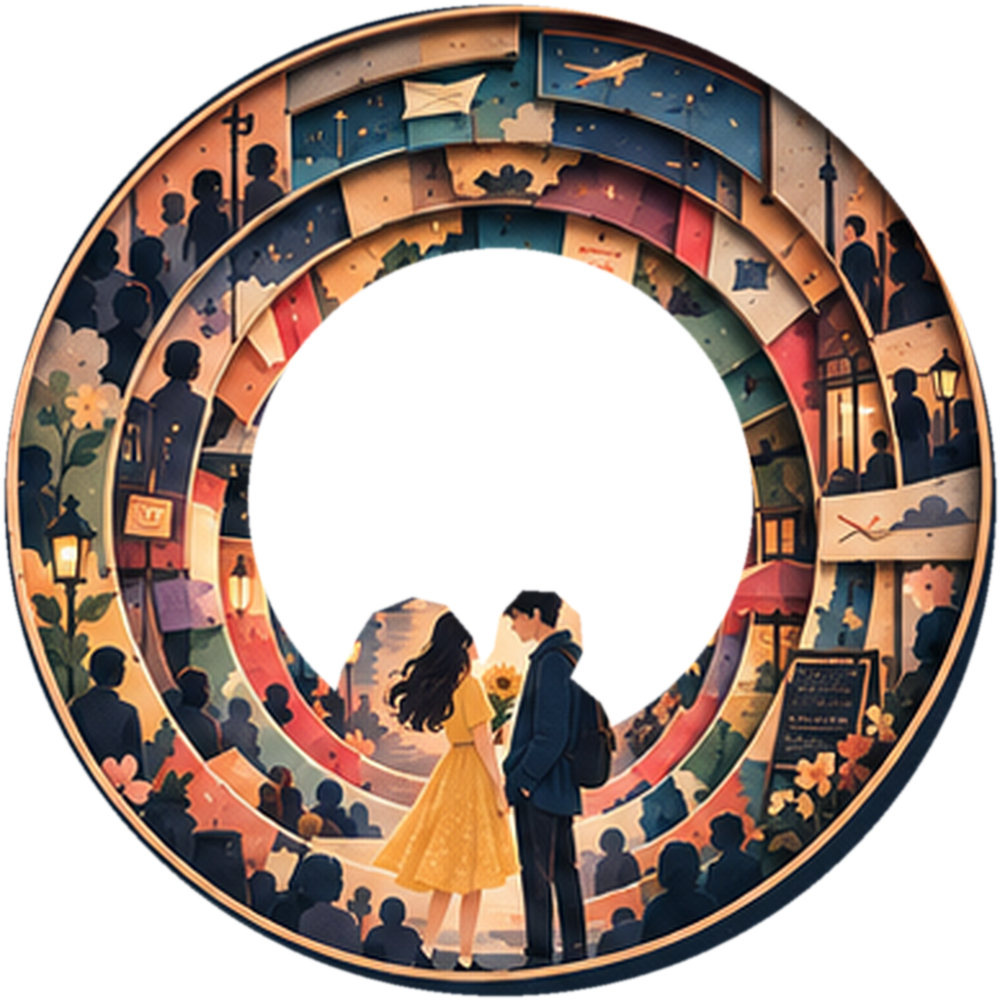
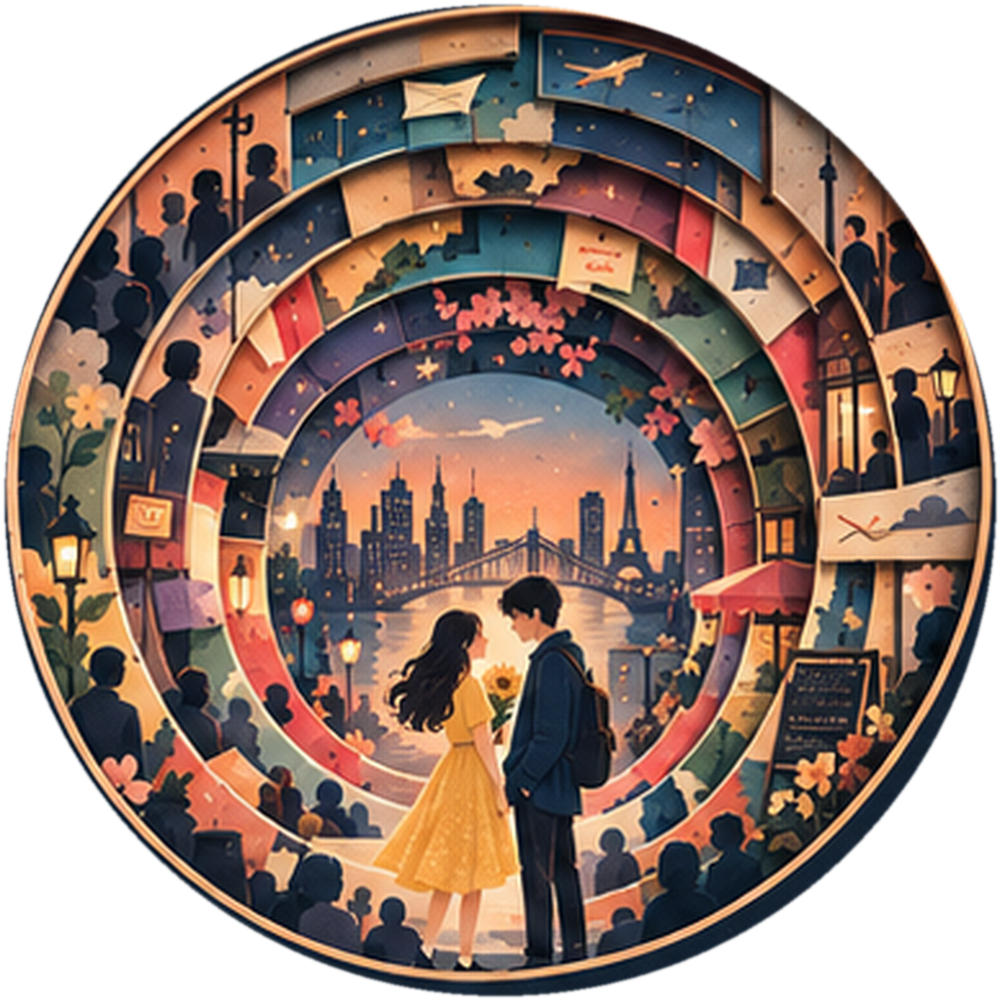
Remove grey fill from Three Meeting Theory portal

Changed region(s): [[0.248, 0.248, 0.775, 0.744]]

diff --git a/shared/web/app.js b/shared/web/app.js
@@ -2,7 +2,7 @@ import { chapters, renderIcon, renderPortal, renderPortalScene } from './chapter
 import { introduction, parts, chapterNotes } from './book.js?v=13';
 import { renderChapterMarker, getChapterMarkerName } from './markers.js?v=13';
 import { PortalRing } from './ring.js?v=10';
-import { renderPortalPicture, renderPortalFrame, renderFramedPortal } from './portal-art.js?v=34';
+import { renderPortalPicture, renderPortalFrame, renderFramedPortal } from './portal-art.js?v=35';
 
 const $ = selector => document.querySelector(selector);
 const $$ = selector => [...document.querySelectorAll(selector)];
@@ -56,7 +56,7 @@ function artHTML(chapter){
   if(chapter.id==='03')return renderFramedPortal('playToWin','play-to-win-chapter','assets/play-to-win-ring-v2.png');
   if(chapter.id==='04')return renderFramedPortal('fashion','fashion-chapter','assets/fashion-ring-v2.png');
   if(chapter.id==='08')return renderFramedPortal('motherRussia','mother-russia-chapter','assets/mother-russia-ring-v2.png');
-  if(chapter.id==='17')return renderFramedPortal('threeMeeting','three-meeting-chapter','assets/three-meeting-ring-v2.png');
+  if(chapter.id==='17')return renderFramedPortal('threeMeeting','three-meeting-chapter','assets/three-meeting-ring-v2.png?v=4');
   if(chapter.id==='18')return renderFramedPortal('datingAlgorithm','dating-algorithm-chapter','assets/dating-algorithm-ring-v2.png');
   if(chapter.id==='19')return renderFramedPortal('dating102','dating-102-chapter','assets/dating-102-ring-v2.png');
   return renderPortal(chapter);
@@ -167,7 +167,7 @@ function selectMapChapter(index,{fromRing=false}={}){
   selectedMapChapter=((index%chapters.length)+chapters.length)%chapters.length;
   const chapter=chapters[selectedMapChapter],part=partById(chapter.act);
   $('#map-view').dataset.chapter=chapter.slug;
-  const fittedRing={'00':'assets/rice-ring-board-v2.png','01':'assets/quant-ring.png','02':'assets/expected-utility-ring-v2.png','03':'assets/play-to-win-ring-v2.png','04':'assets/fashion-ring-v2.png','08':'assets/mother-russia-ring-v2.png','17':'assets/three-meeting-ring-v2.png','18':'assets/dating-algorithm-ring-v2.png','19':'assets/dating-102-ring-v2.png'}[chapter.id];
+  const fittedRing={'00':'assets/rice-ring-board-v2.png','01':'assets/quant-ring.png','02':'assets/expected-utility-ring-v2.png','03':'assets/play-to-win-ring-v2.png','04':'assets/fashion-ring-v2.png','08':'assets/mother-russia-ring-v2.png','17':'assets/three-meeting-ring-v2.png?v=4','18':'assets/dating-algorithm-ring-v2.png','19':'assets/dating-102-ring-v2.png'}[chapter.id];
   const fitted=Boolean(fittedRing);
   const pictureKey=chapter.id==='01'?'quant':chapter.id==='02'?'expectedUtility':chapter.id==='03'?'playToWin':chapter.id==='04'?'fashion':chapter.id==='08'?'motherRussia':chapter.id==='17'?'threeMeeting':chapter.id==='18'?'datingAlgorithm':chapter.id==='19'?'dating102':'rice';
   $('#portal-art').classList.toggle('uses-fitted-picture',fitted);

diff --git a/shared/web/portal-art.js b/shared/web/portal-art.js
@@ -1,5 +1,6 @@
 // One coordinate system for the picture, rotating frame and authoring template.
-// Images are full-bleed scenes. Decorative rings belong only to the frame layer.
+// Most chapters use a separate picture and frame. Three Meeting Theory keeps
+// its indivisible source illustration intact on one rotating circular sheet.
 export const portalGeometry = Object.freeze({size:1000, centre:500, outerRadius:480, apertureRadius:310, pictureRadius:312});
 export const portalPictures = Object.freeze({
   cover:{src:'assets/cover-scene-landscape.png',alt:'Jason looks through the portal toward the original dusk city and bridge landscape.',zoom:1,x:0,y:0},
@@ -12,7 +13,7 @@ export const portalPictures = Object.freeze({
   fashion:{src:'assets/fashion-scene-v2.png',alt:'A red-and-white sneaker, hanging clothes and shoeboxes in a warm room overlooking the city.',zoom:1,x:0,y:0},
   motherRussia:{src:'assets/mother-russia-scene-v2.png',alt:'A glowing wooden cabin in snow faces a river and imagined city beneath a winter moon.',zoom:1,x:0,y:0},
   motherRussiaCover:{src:'assets/mother-russia-cover-scene-v2.png',alt:'A glowing cabin beside a snowy river faces an imagined city beneath a winter moon.',zoom:1,x:0,y:0},
-  threeMeeting:{src:'assets/three-meeting-scene-v2.png?v=3',alt:'A sunset city, river and bridge seen through the Three Meeting Theory portal.',zoom:1,x:0,y:0},
+  threeMeeting:{src:'assets/three-meeting-scene-v2.png?v=4',alt:'Two people meet beside a sunset city and bridge in the Three Meeting Theory illustration.',zoom:1,x:0,y:0},
   threeMeetingCover:{src:'assets/three-meeting-cover-scene-v2.png?v=2',alt:'Two people meet before a sunset bridge and skyline inside the homepage book ring.',zoom:1,x:0,y:0},
   datingAlgorithm:{src:'assets/dating-algorithm-scene-v2.png',alt:'Two people sit together at a lamplit table before a moonlit city, framed by dating profiles and signals.',zoom:1,x:0,y:0},
   datingAlgorithmCover:{src:'assets/dating-algorithm-cover-scene-v2.png',alt:'Two people share a date beneath a crescent moon inside the homepage book ring.',zoom:1,x:0,y:0},

diff --git a/chapters/three-meeting-theory/web/index.html b/chapters/three-meeting-theory/web/index.html
@@ -6,7 +6,7 @@
     <a class="btn ghost" href="#explore">THE THIRD INTERSECTION ↗</a>
     <a class="btn ghost" href="#watch">WATCH ▷</a>
   </div>
-  <img class="hero-portal" src="assets/three-meeting-portal-v2.png?v=3" width="1000" height="1000" alt="A woman and man meet before a sunset bridge, surrounded by paper layers of crowds, flowers and travel memories.">
+  <img class="hero-portal" src="assets/three-meeting-portal-v2.png?v=4" width="1000" height="1000" alt="A woman and man meet before a sunset bridge, surrounded by paper layers of crowds, flowers and travel memories.">
 </section><main><section class="reading" id="read"><figure class="reading-spread">
   <img src="assets/three-meeting-spread-v2.webp" width="1600" height="600" alt="Two people meet near a flower-lined cafe, with a bridge and city skyline beyond.">
   <figcaption>A crowd / A glance / Another time</figcaption>

diff --git a/shared/web/index.html b/shared/web/index.html
@@ -8,7 +8,7 @@
   <title>.json — Jason, under revision</title>
   <link rel="icon" href="assets/favicon.svg" type="image/svg+xml">
   <link rel="stylesheet" href="style.css?v=32">
-  <script type="module" src="app.js?v=44"></script>
+  <script type="module" src="app.js?v=45"></script>
   <link rel="stylesheet" href="cover.css?v=25">
 </head>
 <body class="viewing-cover">

diff --git a/scripts/cut_three_meeting_board.py b/scripts/cut_three_meeting_board.py
@@ -26,49 +26,19 @@ def cut():
     mask = Image.new('L', (SIZE, SIZE))
     draw = ImageDraw.Draw(mask)
     draw.ellipse((5, 5, 995, 995), fill=255)
-    draw.ellipse((248, 248, 752, 752), fill=0)
-
-    # The pair lean into the aperture. Keep both entire people on the rotating
-    # sheet rather than slicing their heads away from their bodies.
-    pair_outline = [
-        (157, 274), (163, 265), (178, 259), (191, 262), (201, 274),
-        (205, 286), (210, 279), (212, 266), (221, 256), (233, 257),
-        (243, 266), (244, 280), (239, 290), (251, 300), (262, 323),
-        (262, 372), (256, 392), (246, 404), (225, 405), (214, 389),
-        (205, 392), (191, 403), (171, 401), (160, 391), (157, 365),
-        (147, 344), (151, 320), (147, 301), (151, 287),
-    ]
-    scale = SIZE / (MAIN_BOX[2] - MAIN_BOX[0])
-    draw.polygon([((x - MAIN_BOX[0]) * scale, (y - MAIN_BOX[1]) * scale)
-                  for x, y in pair_outline], fill=255)
+    # The board supplies a complete circular composition, not an empty river
+    # layer behind the figures. Keep its collage, skyline and couple intact on
+    # one turning sheet instead of fabricating a background inside a cutout.
     ring.putalpha(mask.filter(ImageFilter.GaussianBlur(1.15)))
 
-    # Match the aperture's field of view in the 388 px source circle. Its
-    # 624/1000 diameter is 242 source pixels, centred on the same point as
-    # MAIN_BOX. The old 150 px crop enlarged the bridge and broke the seam.
-    # Remove the foreground pair from this stationary layer; their complete
-    # silhouettes remain on the rotating ring above it.
+    # Retain an aligned centre derivative for reuse in the homepage/artwork
+    # library. The chapter portal shows the intact circle above this picture.
     aperture_size = round((MAIN_BOX[2] - MAIN_BOX[0]) * 624 / SIZE)
     centre_x = (MAIN_BOX[0] + MAIN_BOX[2]) // 2
     centre_y = (MAIN_BOX[1] + MAIN_BOX[3]) // 2
     scene_box = (centre_x - aperture_size // 2, centre_y - aperture_size // 2,
                  centre_x + aperture_size // 2, centre_y + aperture_size // 2)
     scene_source = board.crop(scene_box)
-    people_mask = Image.new('L', scene_source.size)
-    ImageDraw.Draw(people_mask).polygon([(x - scene_box[0], y - scene_box[1])
-                                         for x, y in pair_outline], fill=255)
-    people_mask = people_mask.filter(ImageFilter.MaxFilter(5))
-    for y in range(scene_source.height):
-        occupied = [x for x in range(scene_source.width) if people_mask.getpixel((x, y))]
-        if not occupied:
-            continue
-        left, right = occupied[0], occupied[-1]
-        left_colour = scene_source.getpixel((max(0, left - 3), y))
-        right_colour = scene_source.getpixel((min(scene_source.width - 1, right + 3), y))
-        for x in occupied:
-            blend = (x - left) / max(1, right - left)
-            scene_source.putpixel((x, y), tuple(round(a * (1 - blend) + b * blend)
-                                                 for a, b in zip(left_colour, right_colour)))
     scene = scene_source.resize((SIZE, SIZE), Image.Resampling.LANCZOS)
     # The shared homepage cover ring has no chapter-specific foreground.
     # Keep the board's complete meeting pair in that stop's centre picture.

diff --git a/docs/ARCHITECTURE.md b/docs/ARCHITECTURE.md
@@ -55,7 +55,7 @@ Introduction and Chapter 01 also have rectangular reading spreads. `assets/intro
 
 For Mother Russia's winter-memory board is preserved in `references/design/`. `assets/mother-russia-ring-v2.png` and `assets/mother-russia-scene-v2.png` form the Chapter 08 map and reader portal; the child remains wholly on the rotating ring. The homepage retains its constant cover ring and swaps in a tighter `assets/mother-russia-cover-scene-v2.png` without the child. `assets/mother-russia-cabin-v2.webp` illustrates the reading leaf and desktop preview. `scripts/cut_mother_russia_board.py` regenerates the screen art. The separate immersive essay also uses the new portal and cabin but keeps its historical chapter label, original prose and Memory Graph. The board's Chapter 03 is a concept-layout label, not a change to the v2 or original-edition numbering.
 
-Three Meeting Theory's romance-and-city board is preserved in `references/design/`. `assets/three-meeting-ring-v2.png` and `assets/three-meeting-scene-v2.png` form the Chapter 17 map and reader portal; both foreground figures stay whole on the rotating ring. The homepage keeps its common cover ring and swaps in `assets/three-meeting-cover-scene-v2.png`, which includes the complete couple. `assets/three-meeting-spread-v2.webp` illustrates the reading leaf and desktop preview. `scripts/cut_three_meeting_board.py` regenerates these screen crops. The separate immersive page uses the new portal and vignette without replacing the approved essay or Third Intersection explorer. Its board label 15 refers to the original edition, while this book keeps Chapter 17.
+Three Meeting Theory's romance-and-city board is preserved in `references/design/`. `assets/three-meeting-ring-v2.png` carries the complete circular board illustration on the Chapter 17 map and reader; the aligned `assets/three-meeting-scene-v2.png` remains a separately reusable derivative beneath it. The whole scene and both figures turn together, avoiding a fabricated river fill. The homepage keeps its common cover ring and swaps in `assets/three-meeting-cover-scene-v2.png`, which includes the complete couple. `assets/three-meeting-spread-v2.webp` illustrates the reading leaf and desktop preview. `scripts/cut_three_meeting_board.py` regenerates these screen crops. The separate immersive page uses the new portal and vignette without replacing the approved essay or Third Intersection explorer. Its board label 15 refers to the original edition, while this book keeps Chapter 17.
 
 Dating Algorithm's matching-and-city board is preserved in `references/design/`. `assets/dating-algorithm-ring-v2.png` rotates on the Chapter 18 map and reader while `assets/dating-algorithm-scene-v2.png` keeps both people and their date table stationary in the centre. The homepage retains its shared cover ring and changes only to `assets/dating-algorithm-cover-scene-v2.png` at that stop. `assets/dating-algorithm-spread-v2.webp` shows the board's extracted objects on the reading leaf and desktop preview. `scripts/cut_dating_algorithm_board.py` regenerates these screen crops; the immersive page uses the matching portal and spread while retaining the author-final essay and its existing interactive models. The board's Chapter 16 is an illustrative label; this edition keeps Chapter 18 and the original publication remains Chapter 08.
 

diff --git a/chapters/three-meeting-theory/docs/DESIGN_ADAPTATION.md b/chapters/three-meeting-theory/docs/DESIGN_ADAPTATION.md
@@ -1,7 +1,7 @@
 # Three Meeting Theory digital-book design adaptation
 
-The author's board is preserved unchanged at `references/design/relationshio_modelling - three meeting theory.png` (including the source filename's spelling). `scripts/cut_three_meeting_board.py` derives the transparent collage ring, sunset city-and-bridge centre, homepage centre, complete rectangular cafe/city vignette and circular composition proof. Both foreground figures remain on the turning ring, so their heads and bodies move together. The stationary centre contains the board's skyline and bridge with the couple cleared from the river area. Its source crop matches the ring aperture's 624/1000 field of view; this keeps the bridge and skyline aligned where the two layers meet.
+The author's board is preserved unchanged at `references/design/relationshio_modelling - three meeting theory.png` (including the source filename's spelling). `scripts/cut_three_meeting_board.py` derives the complete circular collage, homepage centre, rectangular cafe/city vignette and composition proof. The source board has no separate unobstructed river behind the couple. An earlier transparent cutout required an artificial fill that left grey streaks, so the chapter portal now keeps the original bridge, river and both complete figures on one circular sheet.
 
-The homepage retains the common book-cover ring and changes its centre at this stop to the board's complete meeting pair against the sunset bridge. The chapter map and Chapter 17 reading leaf use the dedicated Three Meeting Theory ring with the pair on the turning frame and a separate skyline centre. The map artwork turns with the reader's drag and settles upright when selected, keeping the pair legible. The reading leaf and desktop book preview show the full rectangular vignette. The separate immersive page uses the same circular portal and vignette while retaining the approved essay and Third Intersection interaction.
+The homepage retains the common book-cover ring and changes its centre at this stop to the board's complete meeting pair against the sunset bridge. The chapter map and Chapter 17 reading leaf use the dedicated complete circular portal. The whole illustration turns with the reader's drag and settles upright when selected, keeping the figures connected without reconstructing unseen background. The reading leaf and desktop book preview show the full rectangular vignette. The separate immersive page uses the same circular portal and vignette while retaining the approved essay and Third Intersection interaction.
 
 The board's **15** is an original-edition design label. The current digital book retains **Chapter 17**, and original-edition **15** remains historical metadata. The selected `source/approved.md` manuscript and inherited print, film and social proofs are unchanged. The 388-pixel source circle and extracted board collage support this digital adaptation; they are not printer-resolution or separately editable print layers.

diff --git a/docs/PORTAL_ARTWORK.md b/docs/PORTAL_ARTWORK.md
@@ -34,7 +34,7 @@ The Introduction now uses the latest supplied concept board's complete compositi
 | Play to Win concept board (unchanged) | `references/design/model_specification - play to win dont play not to lose.png` |
 | For Mother Russia ring, aligned centre, homepage centre and cabin vignette | `chapters/for-mother-russia/artwork/portal/mother-russia-ring-v2.png`, `mother-russia-scene-v2.png`, `mother-russia-cover-scene-v2.png`, `mother-russia-cabin-v2.webp` |
 | For Mother Russia concept board (unchanged) | `references/design/data_collection - for mother russia.png` |
-| Three Meeting Theory ring, skyline centre, homepage centre and rectangular vignette | `chapters/three-meeting-theory/artwork/portal/three-meeting-ring-v2.png`, `three-meeting-scene-v2.png`, `three-meeting-cover-scene-v2.png`, `three-meeting-spread-v2.webp` |
+| Three Meeting Theory complete circular artwork, aligned centre derivative, homepage centre and rectangular vignette | `chapters/three-meeting-theory/artwork/portal/three-meeting-ring-v2.png`, `three-meeting-scene-v2.png`, `three-meeting-cover-scene-v2.png`, `three-meeting-spread-v2.webp` |
 | Three Meeting Theory concept board (unchanged) | `references/design/relationshio_modelling - three meeting theory.png` |
 | Later father-and-child Cold Rice alternate (print study) | `chapters/com-nguoi/artwork/portal/rice-scene-board-v3.png` |
 | Full-resolution scene masters | `print/assets/cover-saigon-scene-3000.png`, `print/assets/cold-rice-scene-3000.png` |

diff --git a/README.md b/README.md
@@ -77,7 +77,7 @@ For Mother Russia now uses the supplied winter-memory board's photographic porta
 
 ## Three Meeting Theory digital design
 
-Three Meeting Theory uses the supplied romance-and-city board's paper collage ring, sunset bridge centre and rectangular couple/cafe vignette on the chapter map, Chapter 17 reading leaf and desktop book preview. The homepage keeps its common cover ring and shows both people in the centre at this stop. Its separate immersive page uses the new art and retains the original essay and Third Intersection explorer. The board's Chapter 15 is an original-edition label; v2 remains Chapter 17. See [the design adaptation notes](chapters/three-meeting-theory/docs/DESIGN_ADAPTATION.md).
+Three Meeting Theory uses the supplied romance-and-city board's complete circular collage and rectangular couple/cafe vignette on the chapter map, Chapter 17 reading leaf and desktop book preview. The whole illustrated circle turns together, keeping the original bridge and river free of reconstructed background. The homepage keeps its common cover ring and shows both people in the centre at this stop. Its separate immersive page uses the same art and retains the original essay and Third Intersection explorer. The board's Chapter 15 is an original-edition label; v2 remains Chapter 17. See [the design adaptation notes](chapters/three-meeting-theory/docs/DESIGN_ADAPTATION.md).
 
 ## Deployment
 
